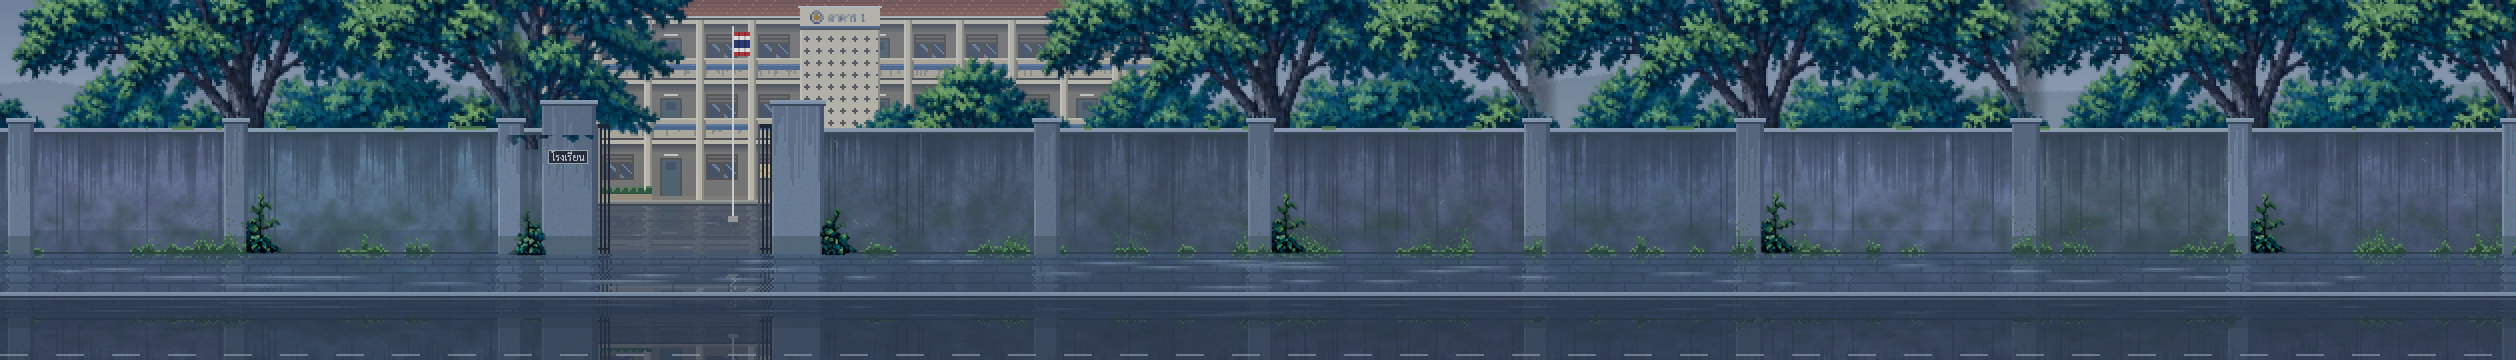
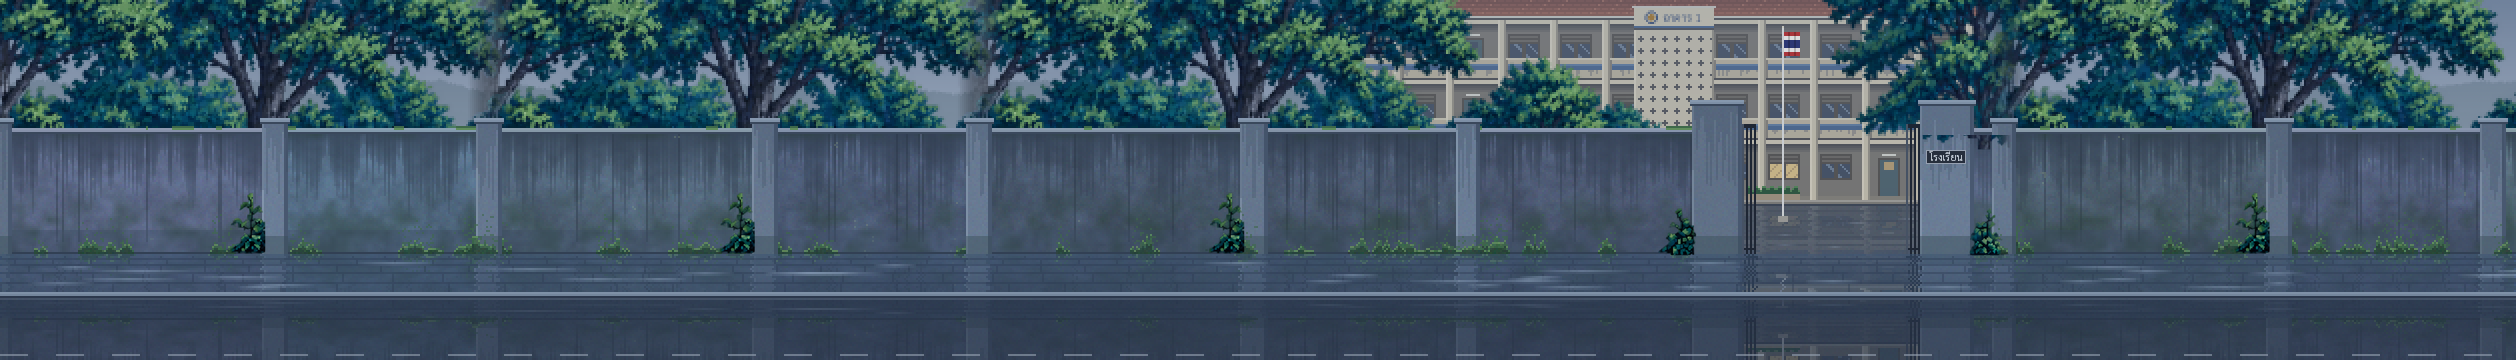
School walk: walk left to right, Sun on the wall side
Across the road the pair keep going forward, now seen from the far side of the road, so they walk
left to right: the strip is no longer mirrored (gate at the right end, as in the painting), the
pillar, gate, building and flag positions follow, the hint points right, and Saifon walks level
with Sun on the road side.

Claude-Session: https://claude.ai/code/session_01CetL5zkYvFPaRRM6Eyxn95

diff --git a/tools/compose_school.py b/tools/compose_school.py
@@ -1,15 +1,14 @@
 """Build the walk-to-school background from the author's school-front painting (rainy morning, side view).
 
 art_source/school_front_rain.png (2172x724) shows the school wall with the gate near its right end.
-The walk goes right to left like the street before it, so the strip is mirrored (gate near the left
-end) and the wall is made longer to walk along:
+Across the crossing the pair keep going, now seen from the far side of the road: they walk left to
+right, the boy on the wall side, toward the gate at the right end. The wall is made longer to walk along:
 
   - the stretch between the centres of the 1st and 3rd wall pillars (two bays with the two big
     trees) is repeated before the painting; every join is at a pillar centre, so the wall lines up
     and the join hides in the pillar. The trees above are cross-faded over a wider band.
   - one more stretch after the painting's right edge: the wall carries on past the gate, so the
     camera never shows the end while the boy stands at the gate
-  - mirrored as a whole, then the name plate on the gate pillar is mirrored back (readable text)
   - scaled so the wall is about as tall as the boy (0.5525) and cropped to 360 rows so the sidewalk
     lies under the characters' feet (row 273 in the game)
 
@@ -29,7 +28,6 @@ from PIL import Image
 PILLAR_1, PILLAR_3 = 276, 1162         # wall pillar centres (source x) bounding the repeated stretch
 REPEATS = 2
 WALL_TOP = 288                          # source row of the wall's top edge (trees above it)
-PLATE = (1990, 322, 2072, 362)          # name plate on the gate pillar (source box)
 GATE = (1656, 1983)                     # gate opening between the two gate pillars (source x)
 SCALE = 0.5525
 CROP_TOP = 30                           # game rows cut off the top after scaling
@@ -64,13 +62,8 @@ def main():
     tile_w = (PILLAR_3 - PILLAR_1)
     tail_at = REPEATS * tile_w                                   # strip x of source x PILLAR_1
     strip = strip[:, TREE_SEAM:]                                 # drop the first tile's fade margin
-    w = strip.shape[1]
-    strip = strip[:, ::-1]                                       # gate near the left end
-    def mirrored(x):                                             # source x -> mirrored strip x
-        return w - 1 - (tail_at + (x - PILLAR_1))
-    x0, y0, x1, y1 = PLATE
-    a, b = int(mirrored(x1)), int(mirrored(x0))
-    strip[y0:y1, a:b] = strip[y0:y1, a:b][:, ::-1]               # plate text reads the right way again
+    def placed(x):                                               # source x -> strip x
+        return tail_at + (x - PILLAR_1)
     img = Image.fromarray(np.clip(strip, 0, 255).astype(np.uint8), mode)
     size = (round(img.width * SCALE), round(img.height * SCALE))
     if mode == "RGBA":
@@ -79,7 +72,7 @@ def main():
         img = img.resize(size, Image.LANCZOS)
     img = img.crop((0, CROP_TOP, size[0], CROP_TOP + 360))
     img.save(sys.argv[2])
-    g0, g1 = sorted(mirrored(x) * SCALE for x in GATE)
+    g0, g1 = sorted(placed(x) * SCALE for x in GATE)
     print(f"{img.width}x{img.height} -> {sys.argv[2]}; gate opening x {g0:.0f}-{g1:.0f} "
           f"(centre {(g0 + g1) / 2:.0f}), wall rows {WALL_TOP * SCALE - CROP_TOP:.0f}-{515 * SCALE - CROP_TOP:.0f}")
 

diff --git a/tools/draw_school_wall.py b/tools/draw_school_wall.py
@@ -9,7 +9,7 @@ the same all along the walk:
     the top, a damp darker band and moss at the foot; pillars where the painting has them (their
     caps stand above the wall, over the painting's own)
   - gate: two tall pillars with caps, open iron gate leaves folded against them, the name plate
-    "โรงเรียน" (Sarabun) on the left pillar; between them the painting's campus stays visible
+    "โรงเรียน" (Sarabun) on the right pillar; between them the painting's campus stays visible
   - sidewalk (narrow: rows 255-292): rows of slabs deeper toward the viewer, upright staggered joints, soaked: it mirrors the wall, pillars and trees above it
     (rippled, darker), with a few puddles holding the sky's light
   - curb and road: a light curb edge, dark wet asphalt mirroring the scene more faintly, a lane line
@@ -26,8 +26,8 @@ FONT = "assets/fonts/Sarabun-Regular.ttf"
 K = 2                                   # game pixels per drawn pixel
 WALL_TOP, WALL_BASE = 129, 255          # game rows (painting's wall line; feet stand at 273)
 CURB_TOP, ROAD_TOP = 292, 298         # narrow sidewalk (feet at 273 on it), wider road in front
-PILLARS = [21.5, 236, 511, 1047, 1261, 1536.6, 1750, 2026, 2240, 2515.5]   # game x (compose_school.py)
-GATE = (568.5, 798.0)                   # gate pillar centres; opening between them
+PILLARS = [0.0, 275.0, 489.0, 765.0, 978.4, 1254.0, 1468.0, 2004.0, 2279.0, 2493.5]   # game x (compose_school.py)
+GATE = (1717.0, 1946.5)                 # gate pillar centres; opening between them (gate at the right end)
 GATE_TOP = 104
 
 WALL = np.array((88, 108, 133))
@@ -169,8 +169,8 @@ def main():
         pillar(cx, 6.5, top - 3, 1)
         if rng.random() < 0.6:
             moss(int(round(cx / K)) + rng.integers(-5, 6), rng.integers(5, 13), rng.integers(4, 9))
-    lx = pillar(GATE[0], 13.5, GATE_TOP // K, 1)
-    rx = pillar(GATE[1], 12.5, GATE_TOP // K, 1)
+    lx = pillar(GATE[0], 12.5, GATE_TOP // K, 1)
+    rx = pillar(GATE[1], 13.5, GATE_TOP // K, 1)
 
     # gate leaves folded open against the pillars (vertical bars, a rail top and bottom)
     for x0, x1 in [(lx[1], lx[1] + 7), (rx[0] - 7, rx[0])]:
@@ -234,7 +234,7 @@ def main():
     d = ImageDraw.Draw(plate)
     d.rectangle([0, 0, 39, 13], outline=(150, 160, 176))
     d.text((20, 7), "โรงเรียน", font=ImageFont.truetype(FONT, 10), fill=(210, 218, 228), anchor="mm")
-    px, py = int(GATE[0] - 20), 150
+    px, py = int(GATE[1] - 20), 150                            # on the right pillar, as in the painting
     big[py:py + 14, px:px + 40] = np.asarray(plate)
     if len(sys.argv) > 3:                                     # the author's weeds at the wall's foot (trees layer)
         trees = np.asarray(Image.open(sys.argv[3]).convert("RGBA")).astype(float)

diff --git a/tools/draw_school_building.py b/tools/draw_school_building.py
@@ -26,16 +26,16 @@ from PIL import Image, ImageDraw, ImageFont
 
 FONT = "assets/fonts/Sarabun-Regular.ttf"
 K = 2
-BUILDING = (540, 1172)                   # game x of the building (where the painting has building, mirrored)
-GATE = (593, 774)                        # gate opening (compose_school.py)
+BUILDING = (1343, 1975)                  # game x of the building (where the painting has its building)
+GATE = (1741, 1922)                      # gate opening (compose_school.py)
 WALL_TOP, WALL_BASE = 129, 255
 ROOF_H = 10                              # drawn rows of roof
 FLOOR = 30                               # drawn rows per storey (60 game px)
 GROUND = ROOF_H + 3 * FLOOR              # drawn row of the courtyard at the building's foot (game 200)
 BAY = 26                                 # drawn px between column centres
-CENTRE = (800, 880)                      # game x of the middle block (forward, stairs, sign)
+CENTRE = (1635, 1715)                    # game x of the middle block (forward, stairs, sign)
 SIGN_TOP = 4                             # drawn row of the middle block's raised parapet
-FLAG_X = 732                             # game x of the flagpole (seen through the gate and over the wall)
+FLAG_X = 1783                            # game x of the flagpole (seen through the gate and over the wall)
 
 SKY = np.array((132, 148, 170))
 SKY_TOP = np.array((112, 130, 156))

diff --git a/README.md b/README.md
@@ -58,15 +58,15 @@
    เงียบ 2.6 วินาทีให้เห็นไฟรถเหลือง → แดง แล้วไฟคนข้ามเขียว ค่อยขึ้น "ไฟก็เขียวซะแล้ว" บรรทัดถัดไปตัดกลับมุมเดิม จอค่อยๆ ดำ
    "ผมเลยตัดสินใจ เดินต่อ..." และ "...พระเอก MV..." บนจอดำ แล้วคัทซีนคืนตัวละคร/ฝน/เสาไฟกลับเข้าฉาก (`CrossingCutscene.restore()`)
 6. **เดินไปโรงเรียน** (`scripts/school_walk.gd`, บท `school` `gate` `gate_after`): มุมข้าง เลียบกำแพงโรงเรียน ผู้เล่นเดินเอง
-   (ขวาไปซ้าย 1360px ~28 วินาที) สายฝนเดินเคียงข้างทางขวาของซัน = ฝั่งถนน (ไม่นำหน้า: ห่าง -5px วาดทับซัน เท้าต่ำกว่า 4px) ใต้ร่มเดียวกัน (`npc_walker.gd` `follow()`: ท่าเดินนับตามระยะ เท้าไม่ไถล
+   (ข้ามถนนมาแล้วเดินต่อไปข้างหน้า มองจากอีกฝั่งถนนจึงเดินซ้ายไปขวา 1370px ~28 วินาที ซันชิดกำแพง) สายฝนเดินเคียงข้างฝั่งถนน (ตัวตรงกัน: +7px วาดทับซัน เท้าต่ำกว่า 4px) ใต้ร่มเดียวกัน (`npc_walker.gd` `follow()`: ท่าเดินนับตามระยะ เท้าไม่ไถล
    ซันเดิน 48px/วินาที ท่าเดินช้าลงตามสัดส่วน) ความคิดขึ้นเองตามระยะ บรรทัด `event: glance` ภาพใกล้หน้าเธอจากผู้เขียน (`assets/characters/closeup/heroine_glance.png` จาก `art_source/heroine_glance_rain.png`) จางเข้า เลื่อนลงช้าๆ แล้วจางออก
    ถึงประตู: "รู้ตัวทีก็มาถึงหน้าโรงเรียนซะแล้ว..." ซันพูด "นี่..." (`speaker: ซัน` ไม่มีฟองคำพูดเหนือเธอ) เธอเดินเข้าประตู
    ลึกเข้าไปพร้อมจางหาย (`event: leave`) "สรุปแล้ว... ยัยนี่เป็นใครกันแน่?" จอดำ แล้วปุ่ม "ออก"
    (บนเว็บออกจากเต็มจอ: `_leave_fullscreen()` ใน `prologue.gd`) แล้วแตะเพื่อเล่นอีกครั้ง
    - ฉากหลัง: ต้นไม้จากผู้เขียน (`art_source/school_trees_rain.png` ตัดพื้นหลังแล้ว จากภาพหน้าโรงเรียน `school_front_rain.png`)
      `python3 tools/compose_school.py art_source/school_trees_rain.png trees.png`:
-     กลับซ้ายขวาให้ประตูอยู่ทางซ้าย ต่อกำแพง 2 ช่วงเสา (รอยต่อกลางเสา ต้นไม้เฟดผสม) ป้าย "โรงเรียน" พลิกกลับให้อ่านได้
-     ย่อ 0.5525 ให้กำแพงสูงราวตัวซัน ตัดแถวบน 30 ให้ทางเท้าอยู่ใต้เท้า ประตูที่ x 593-774 ชั้นฉากถนนซ่อนทั้งหมด
+     ประตูอยู่ทางขวาตามภาพ ต่อกำแพงข้างหน้า 2 ช่วงเสา (รอยต่อกลางเสา ต้นไม้เฟดผสม)
+     ย่อ 0.5525 ให้กำแพงสูงราวตัวซัน ตัดแถวบน 30 ให้ทางเท้าอยู่ใต้เท้า ประตูที่ x 1741-1922 ชั้นฉากถนนซ่อนทั้งหมด
      แล้ว `python3 tools/draw_school_building.py trees.png assets/bg/school/school_front.png` วาดท้องฟ้าฝนกับแนวไม้ไกลๆ และอาคารเรียนใหม่ แล้ววางต้นไม้ทับ: 3 ชั้นมีระเบียง ชั้นละ 60px ผนังครีม แถบสีประจำโรงเรียน
      หลังคากระเบื้องส้มแดง หน้าต่างคู่มีบานเกล็ดด้านบน ประตูห้องพร้อมป้ายเลขห้อง อาคารกลางยื่นออกมามีผนังช่องลมลายข้าวหลามตัด
      ป้าย "อาคาร 1" กับตราโรงเรียน ม่านฝน ในประตูมีขั้นบันได พื้นเปียก กระถางต้นไม้ และเสาธงชาติ
